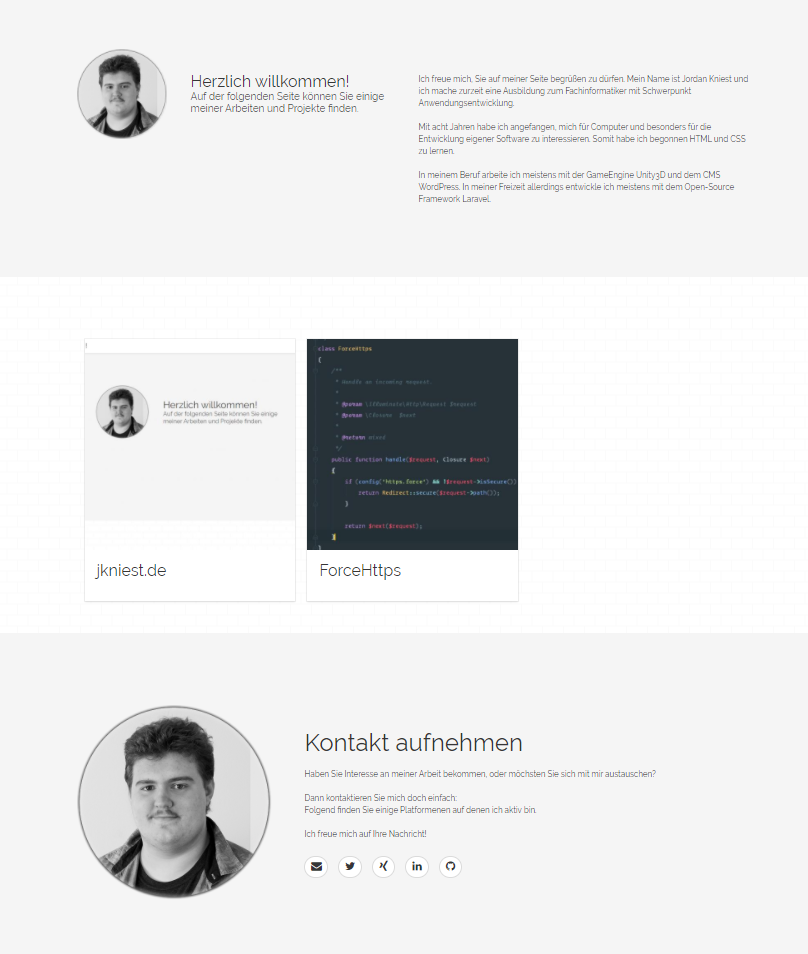
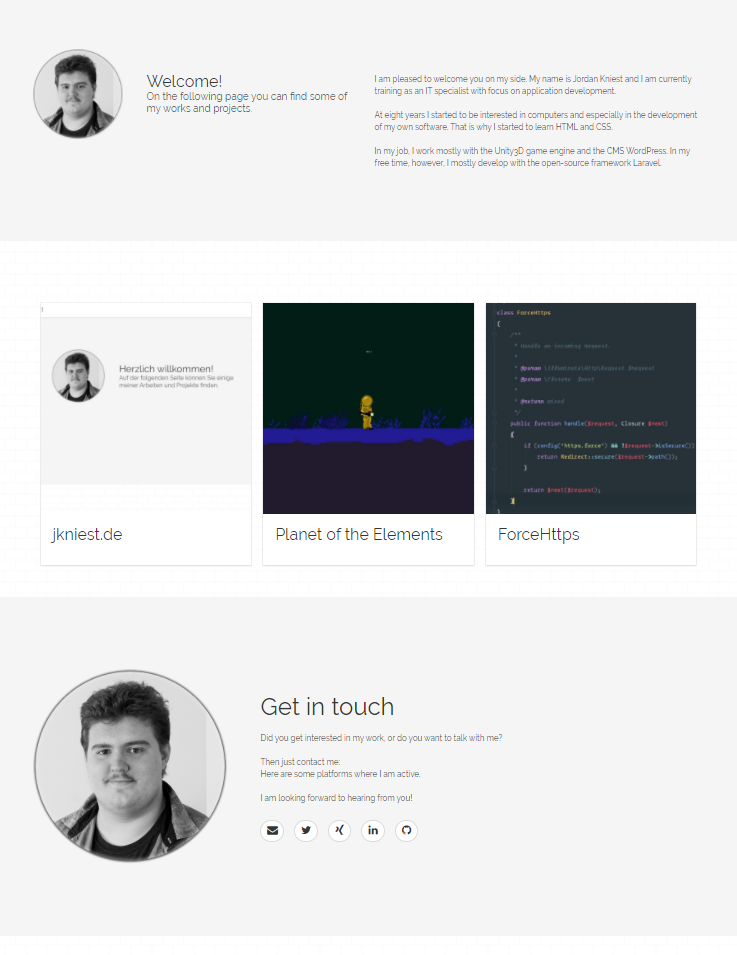
Added project: "Planet of the Elements"

diff --git a/resources/views/projects/partials/de/PlanetoftheElements.blade.php b/resources/views/projects/partials/de/PlanetoftheElements.blade.php
@@ -1,0 +1,108 @@
+@php
+    /**
+     * Copyright (C) 2017 Jordan Kniest
+     *
+     * This program is free software: you can redistribute it and/or modify
+     * it under the terms of the GNU Affero General Public License as published by
+     * the Free Software Foundation, either version 3 of the License, or
+     * (at your option) any later version.
+     *
+     * This program is distributed in the hope that it will be useful,
+     * but WITHOUT ANY WARRANTY; without even the implied warranty of
+     * MERCHANTABILITY or FITNESS FOR A PARTICULAR PURPOSE.  See the
+     * GNU Affero General Public License for more details.
+     *
+     * You should have received a copy of the GNU Affero General Public License
+     * along with this program.  If not, see <http://www.gnu.org/licenses/>.
+     */
+@endphp
+
+
+<section>
+    <p>
+        Das Minispiel "Planet of the Elements" wurde für eine Game-Competition innerhalb von 50 Stunden, von zwei
+        Leuten, entwickelt. Der Spieler hat dabei das Ziel in Wellen erscheinende Gegner zu töten, ohne selber zu
+        sterben.
+    </p>
+    <br>
+    <p>
+        Dabei lassen diese Gegner Münzen fallen, die der Spieler in Shop-Automaten benutzen kann, um sich zufällige
+        Items und Waffen zu kaufen. Insgesamt gibt es knapp 20 Items und fünf Waffen.
+    </p>
+</section>
+
+<hr class="m3t">
+
+<section class="m3t">
+    <h3 class="title is-3">Funktionen</h3>
+
+    <section class="m2t">
+
+        <h4 class="title is-4">Zufällige Items</h4>
+
+        <p>
+            Es gibt knapp 20 Items, die alle miteinander kombinierbar und interagierbar sind. Manche der Items
+            müssen manuell eingesetzt werden, während andere durchgehend einen Effekt haben, wie zum Beispiel
+            Attribut-Erhöhungen (Geschwindigkeit, Schaden, ..) oder auch Zusatz-Effekte, wie Feuer-Schaden.
+        </p>
+
+    </section>
+
+    <section class="m3t">
+
+        <h4 class="title is-4">Gegner / Wellen</h4>
+
+        <p>
+            Insgesamt drei Gegner mit komplett anderem Verhalten spawnen zufällig in Wellen in der Welt. Ein Gegner
+            wird erst aktiviert, wenn der Spieler sich diesem nähert. Ein anderer widerrum macht Gift-Schaden. Jede
+            Welle ist schwieriger als die vorherige, da zum einen die Gegner stärker werden, aber auch mehr Gegner
+            erscheinen.
+        </p>
+
+    </section>
+
+    <section class="m3t">
+
+        <h4 class="title is-4">Shops / Kisten</h4>
+
+        <p>
+            Innerhalb des Levels befinden sich einige Shops und Kisten. Für eine gewisse Summe, kann man dort zufällige
+            Items oder Waffen kaufen.
+        </p>
+
+    </section>
+
+</section>
+
+<hr class="m3t">
+
+<section class="m3t">
+
+    <h3 class="title is-3">Entwicklung</h3>
+
+    <p>
+        Das Spiel wurde mit der <a href="https://unity3d.com">Unity3D Engine</a> entwickelt. Das Spiel ist auf
+        <a href="http://gamejolt.com/games/planet-of-the-elements/53528">Gamejolt</a> zu finden. Es gibt eine Web-,
+        Windows-, Mac- und Linux-Version.
+    </p>
+    <br>
+    <p>
+        Ich war für die komplette Programmierung zuständig, die Grafiken wurden von Tobias Daniel gemacht, einem
+        befreundetem Zeichner. Insgesamt sind knapp 50 Stunden in das Projekt geflossen.
+    </p>
+
+</section>
+
+<hr class="m3t">
+
+<section class="m3t">
+
+    <h3 class="title is-3">Fazit</h3>
+
+    <p>
+        Die Entwicklung dieses Spiels bereitete uns sehr viel Spaß. Mit der Einsendung kamen wir auch in die zweite
+        Runde des Wettbewerbs, aber aus Zeitgründen mussten wir leider das Projekt abbrechen und aus dem Wettbewerb
+        aussteigen.
+    </p>
+
+</section>

diff --git a/resources/views/projects/partials/en/PlanetoftheElements.blade.php b/resources/views/projects/partials/en/PlanetoftheElements.blade.php
@@ -1,0 +1,106 @@
+@php
+    /**
+     * Copyright (C) 2017 Jordan Kniest
+     *
+     * This program is free software: you can redistribute it and/or modify
+     * it under the terms of the GNU Affero General Public License as published by
+     * the Free Software Foundation, either version 3 of the License, or
+     * (at your option) any later version.
+     *
+     * This program is distributed in the hope that it will be useful,
+     * but WITHOUT ANY WARRANTY; without even the implied warranty of
+     * MERCHANTABILITY or FITNESS FOR A PARTICULAR PURPOSE.  See the
+     * GNU Affero General Public License for more details.
+     *
+     * You should have received a copy of the GNU Affero General Public License
+     * along with this program.  If not, see <http://www.gnu.org/licenses/>.
+     */
+@endphp
+
+
+<section>
+    <p>
+        The mini-game "Planet of the Elements" was developed for a game competition within 50 hours by two people.
+        The player has the goal to kill enemies appering in waves without dying himself.
+    </p>
+    <br>
+    <p>
+        These enemies drop coins that the player can use in shops to buy random items and weapons. There are almost
+        20 different items and five different weapons.
+    </p>
+</section>
+
+<hr class="m3t">
+
+<section class="m3t">
+    <h3 class="title is-3">Features</h3>
+
+    <section class="m2t">
+
+        <h4 class="title is-4">Random items</h4>
+
+        <p>
+            There are almost 20 different items, all of which can be combined and interacted with. Some of the items
+            must be used manually, while others have a continuous effect, such as attribute increases (speed, damage,
+            etc.) or additional effects such as fire damage.
+        </p>
+
+    </section>
+
+    <section class="m3t">
+
+        <h4 class="title is-4">Enemys / Waves</h4>
+
+        <p>
+            A total of three enemies with completely different behaviors randomly spawn in waves in the world. One
+            enemy is inactive until the players come near to it. Another enemy makes poison damage. Each wave is
+            more difficult than the previous one, because on the one hand the enemies become stronger, but also more
+            enemies appear.
+        </p>
+
+    </section>
+
+    <section class="m3t">
+
+        <h4 class="title is-4">Shops / Chests</h4>
+
+        <p>
+            Within the level are some shops and chests. For a certain amount, you can buy random items or weapons
+            there.
+        </p>
+
+    </section>
+
+</section>
+
+<hr class="m3t">
+
+<section class="m3t">
+
+    <h3 class="title is-3">Development</h3>
+
+    <p>
+        The game was developed with the <a href="https://unity3d.com">Unity3D Engine</a>. The game can be found on
+        <a href="http://gamejolt.com/games/planet-of-the-elements/53528">Gamejolt</a>. There is a web, windows, mac
+        and linux version.
+    </p>
+    <br>
+    <p>
+        I was responsible for the complete programming. The graphics were done by Tobias Daniel, a friend of mine.
+        A total of almost 50 hours have been spent on the project.
+    </p>
+
+</section>
+
+<hr class="m3t">
+
+<section class="m3t">
+
+    <h3 class="title is-3">Conclusion</h3>
+
+    <p>
+        The development of this game was a lot of fun. We also came to the second round of the competition, but for
+        reasons of time we had to cancel the project and leave the competition.
+    </p>
+
+</section>

diff --git a/app/Projects/PlanetoftheElements.php b/app/Projects/PlanetoftheElements.php
@@ -1,0 +1,88 @@
+<?php
+
+namespace App\Projects;
+
+/**
+ * Planet of the elements - A small game for the Game++ competition
+ *
+ * Copyright (C) 2017 Jordan Kniest
+ *
+ * This program is free software: you can redistribute it and/or modify
+ * it under the terms of the GNU Affero General Public License as published by
+ * the Free Software Foundation, either version 3 of the License, or
+ * (at your option) any later version.
+ *
+ * This program is distributed in the hope that it will be useful,
+ * but WITHOUT ANY WARRANTY; without even the implied warranty of
+ * MERCHANTABILITY or FITNESS FOR A PARTICULAR PURPOSE.  See the
+ * GNU Affero General Public License for more details.
+ *
+ * You should have received a copy of the GNU Affero General Public License
+ * along with this program.  If not, see <http://www.gnu.org/licenses/>.
+ *
+ * @category Projects
+ * @package  JKniest.de
+ * @author   Jordan Kniest <contact@jkniest.de>
+ * @license  GNU AFFERO GENERAL PUBLIC LICENSE <http://www.gnu.org/licenses/agpl.txt>
+ * @link     https://jkniest.de
+ */
+class PlanetoftheElements extends Project
+{
+    /**
+     * The name
+     *
+     * @var string
+     */
+    protected $name = 'Planet of the Elements';
+
+    /**
+     * The slug
+     *
+     * @var string
+     */
+    protected $slug = 'planet-of-the-elements';
+
+    /**
+     * The meta tags
+     *
+     * @var array
+     */
+    protected $tags = ['unity3d', 'game', 'c#'];
+
+    /**
+     * All related media files
+     *
+     * @var array
+     */
+    protected $media = [
+        'snake-killer.jpg',
+        'killer-snake.jpg',
+        'lonely.jpg',
+        'https://www.youtube.com/embed/n0W33QNpPE0'
+    ];
+
+    /**
+     * The cover media file (should be an image)
+     *
+     * @var string
+     */
+    protected $cover = 'lonely.jpg';
+
+    /**
+     * The year when this project was created
+     *
+     * @var int
+     */
+    protected $year = 2015;
+
+    /**
+     * Additional meta information that is shown inside the project page
+     *
+     * @var array
+     */
+    protected $meta = [
+        'engine'    => 'Unity3D',
+        'languages' => 'C#'
+    ];
+
+}

diff --git a/resources/views/projects/partials/de/PlanetoftheElements_short.blade.php b/resources/views/projects/partials/de/PlanetoftheElements_short.blade.php
@@ -1,0 +1,21 @@
+@php
+    /**
+     * Copyright (C) 2017 Jordan Kniest
+     *
+     * This program is free software: you can redistribute it and/or modify
+     * it under the terms of the GNU Affero General Public License as published by
+     * the Free Software Foundation, either version 3 of the License, or
+     * (at your option) any later version.
+     *
+     * This program is distributed in the hope that it will be useful,
+     * but WITHOUT ANY WARRANTY; without even the implied warranty of
+     * MERCHANTABILITY or FITNESS FOR A PARTICULAR PURPOSE.  See the
+     * GNU Affero General Public License for more details.
+     *
+     * You should have received a copy of the GNU Affero General Public License
+     * along with this program.  If not, see <http://www.gnu.org/licenses/>.
+     */
+@endphp
+
+Planet of the Elements ist ein Unity3D-Minispiel, das innerhalb von 50 Stunden für eine Game-Competition entwickelt
+wurde.

diff --git a/resources/views/projects/partials/en/PlanetoftheElements_short.blade.php b/resources/views/projects/partials/en/PlanetoftheElements_short.blade.php
@@ -1,0 +1,20 @@
+@php
+    /**
+     * Copyright (C) 2017 Jordan Kniest
+     *
+     * This program is free software: you can redistribute it and/or modify
+     * it under the terms of the GNU Affero General Public License as published by
+     * the Free Software Foundation, either version 3 of the License, or
+     * (at your option) any later version.
+     *
+     * This program is distributed in the hope that it will be useful,
+     * but WITHOUT ANY WARRANTY; without even the implied warranty of
+     * MERCHANTABILITY or FITNESS FOR A PARTICULAR PURPOSE.  See the
+     * GNU Affero General Public License for more details.
+     *
+     * You should have received a copy of the GNU Affero General Public License
+     * along with this program.  If not, see <http://www.gnu.org/licenses/>.
+     */
+@endphp
+
+Planet of the Elements is a Unity3D mini-game, which was developed within 50 hours for a game competition.

diff --git a/resources/lang/en/jkniest.php b/resources/lang/en/jkniest.php
@@ -58,6 +58,7 @@ return [
     'meta' => [
         'framework' => 'Framework',
         'languages' => 'Languages',
-        'license'   => 'License'
+        'license'   => 'License',
+        'engine'    => 'Engine'
     ]
 ];

diff --git a/resources/lang/de/jkniest.php b/resources/lang/de/jkniest.php
@@ -58,6 +58,7 @@ return [
     'meta' => [
         'framework' => 'Framework',
         'languages' => 'Sprachen',
-        'license'   => 'Lizenz'
+        'license'   => 'Lizenz',
+        'engine'    => 'Engine'
     ]
 ];

diff --git a/config/portfolio.php b/config/portfolio.php
@@ -36,6 +36,7 @@ return [
 
     'projects' => [
         \App\Projects\jkniestde::class,
+        \App\Projects\PlanetoftheElements::class,
         \App\Projects\ForceHttps::class
     ],
 
